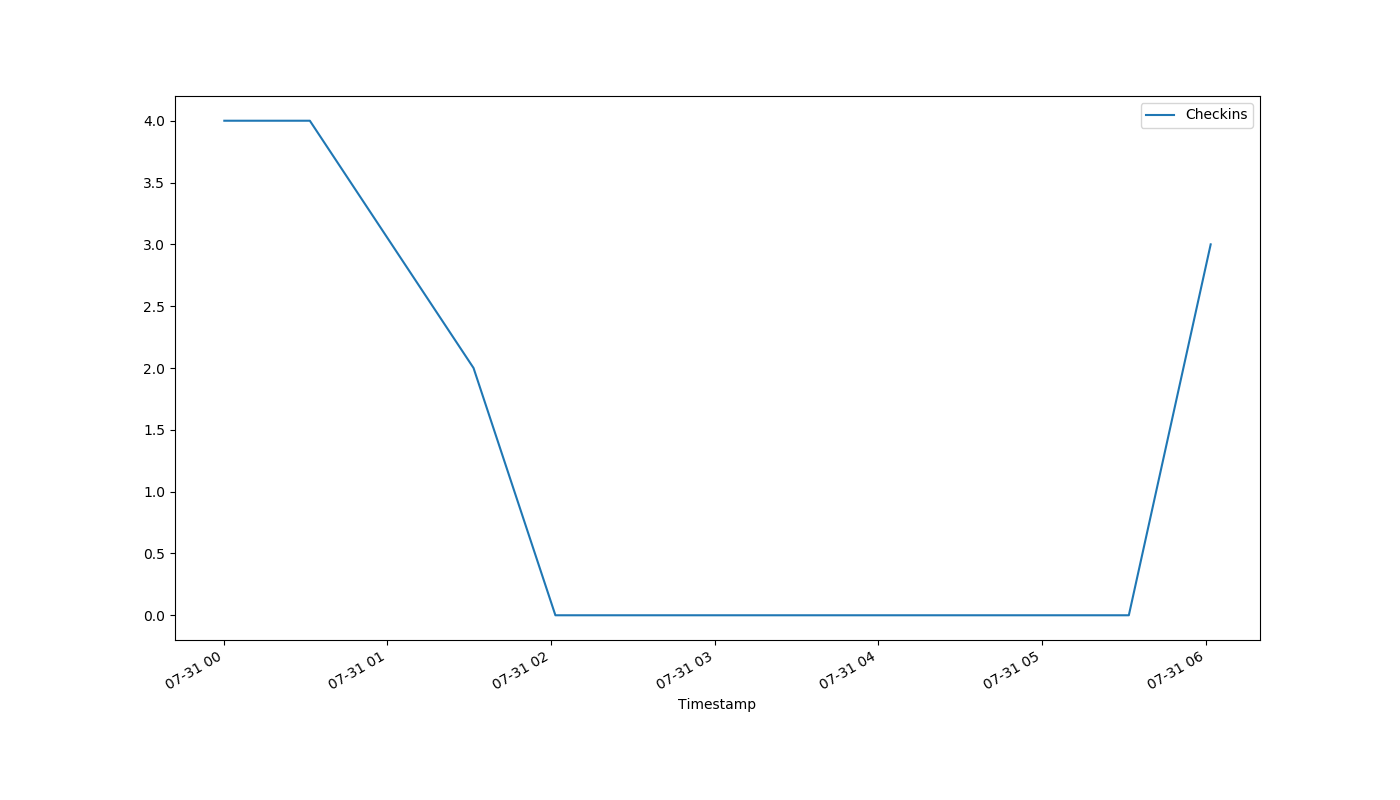
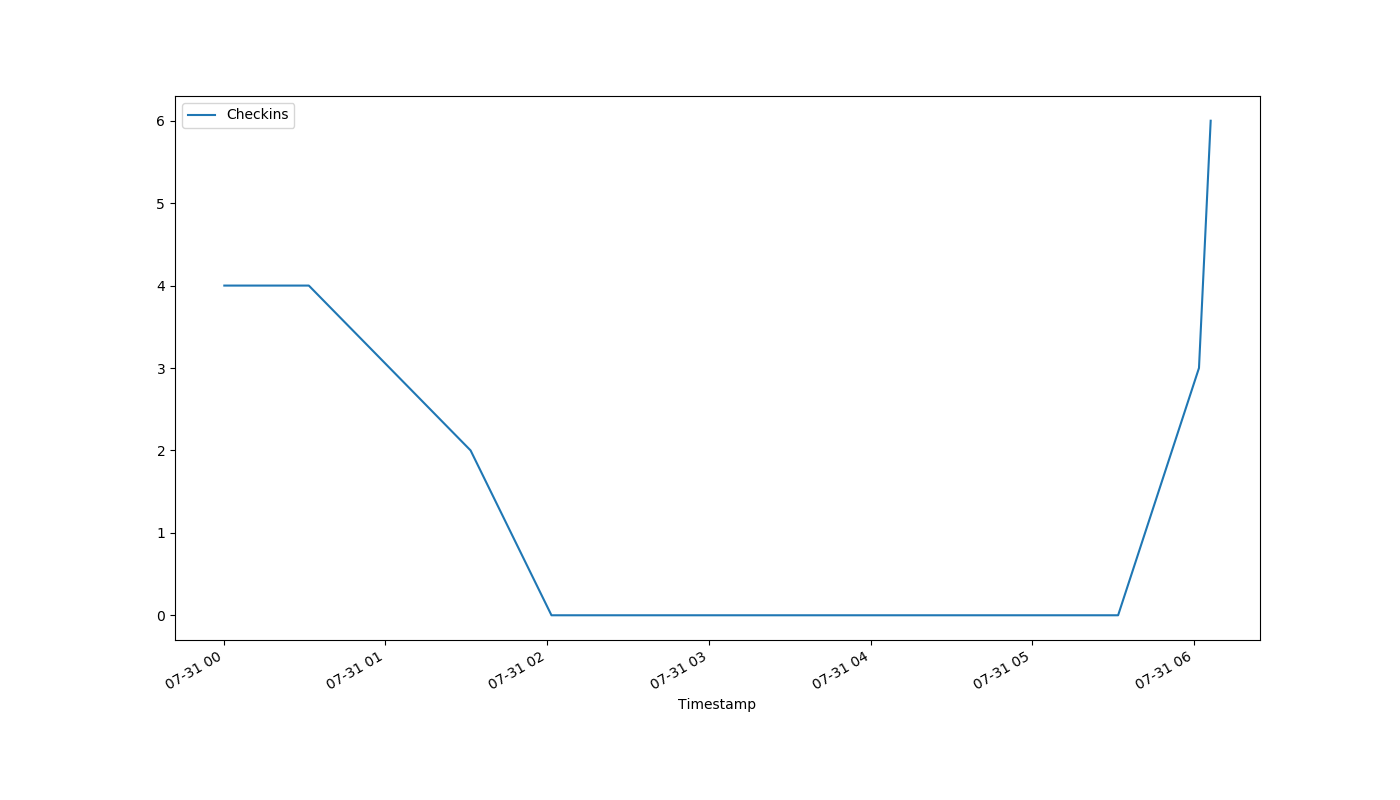
auto-Jul-31-06:08:18

diff --git a/index.html b/index.html
@@ -1,1 +1,1 @@
-<!DOCTYPE html><html><head><meta http-equiv="refresh" content="30"><link rel='stylesheet' href='holmcurrent.css'></head><body><p id='count'>3</p><div id='graph-wrap'><img id='graph' src='holmgraph-Jul-31.png'></div><p id='updated'>Last updated 06:02:01 / 06:01:49</p></body></html>
+<!DOCTYPE html><html><head><meta http-equiv="refresh" content="30"><link rel='stylesheet' href='holmcurrent.css'></head><body><p id='count'>6</p><div id='graph-wrap'><img id='graph' src='holmgraph-Jul-31.png'></div><p id='updated'>Last updated 06:07:01 / 06:06:09</p></body></html>
